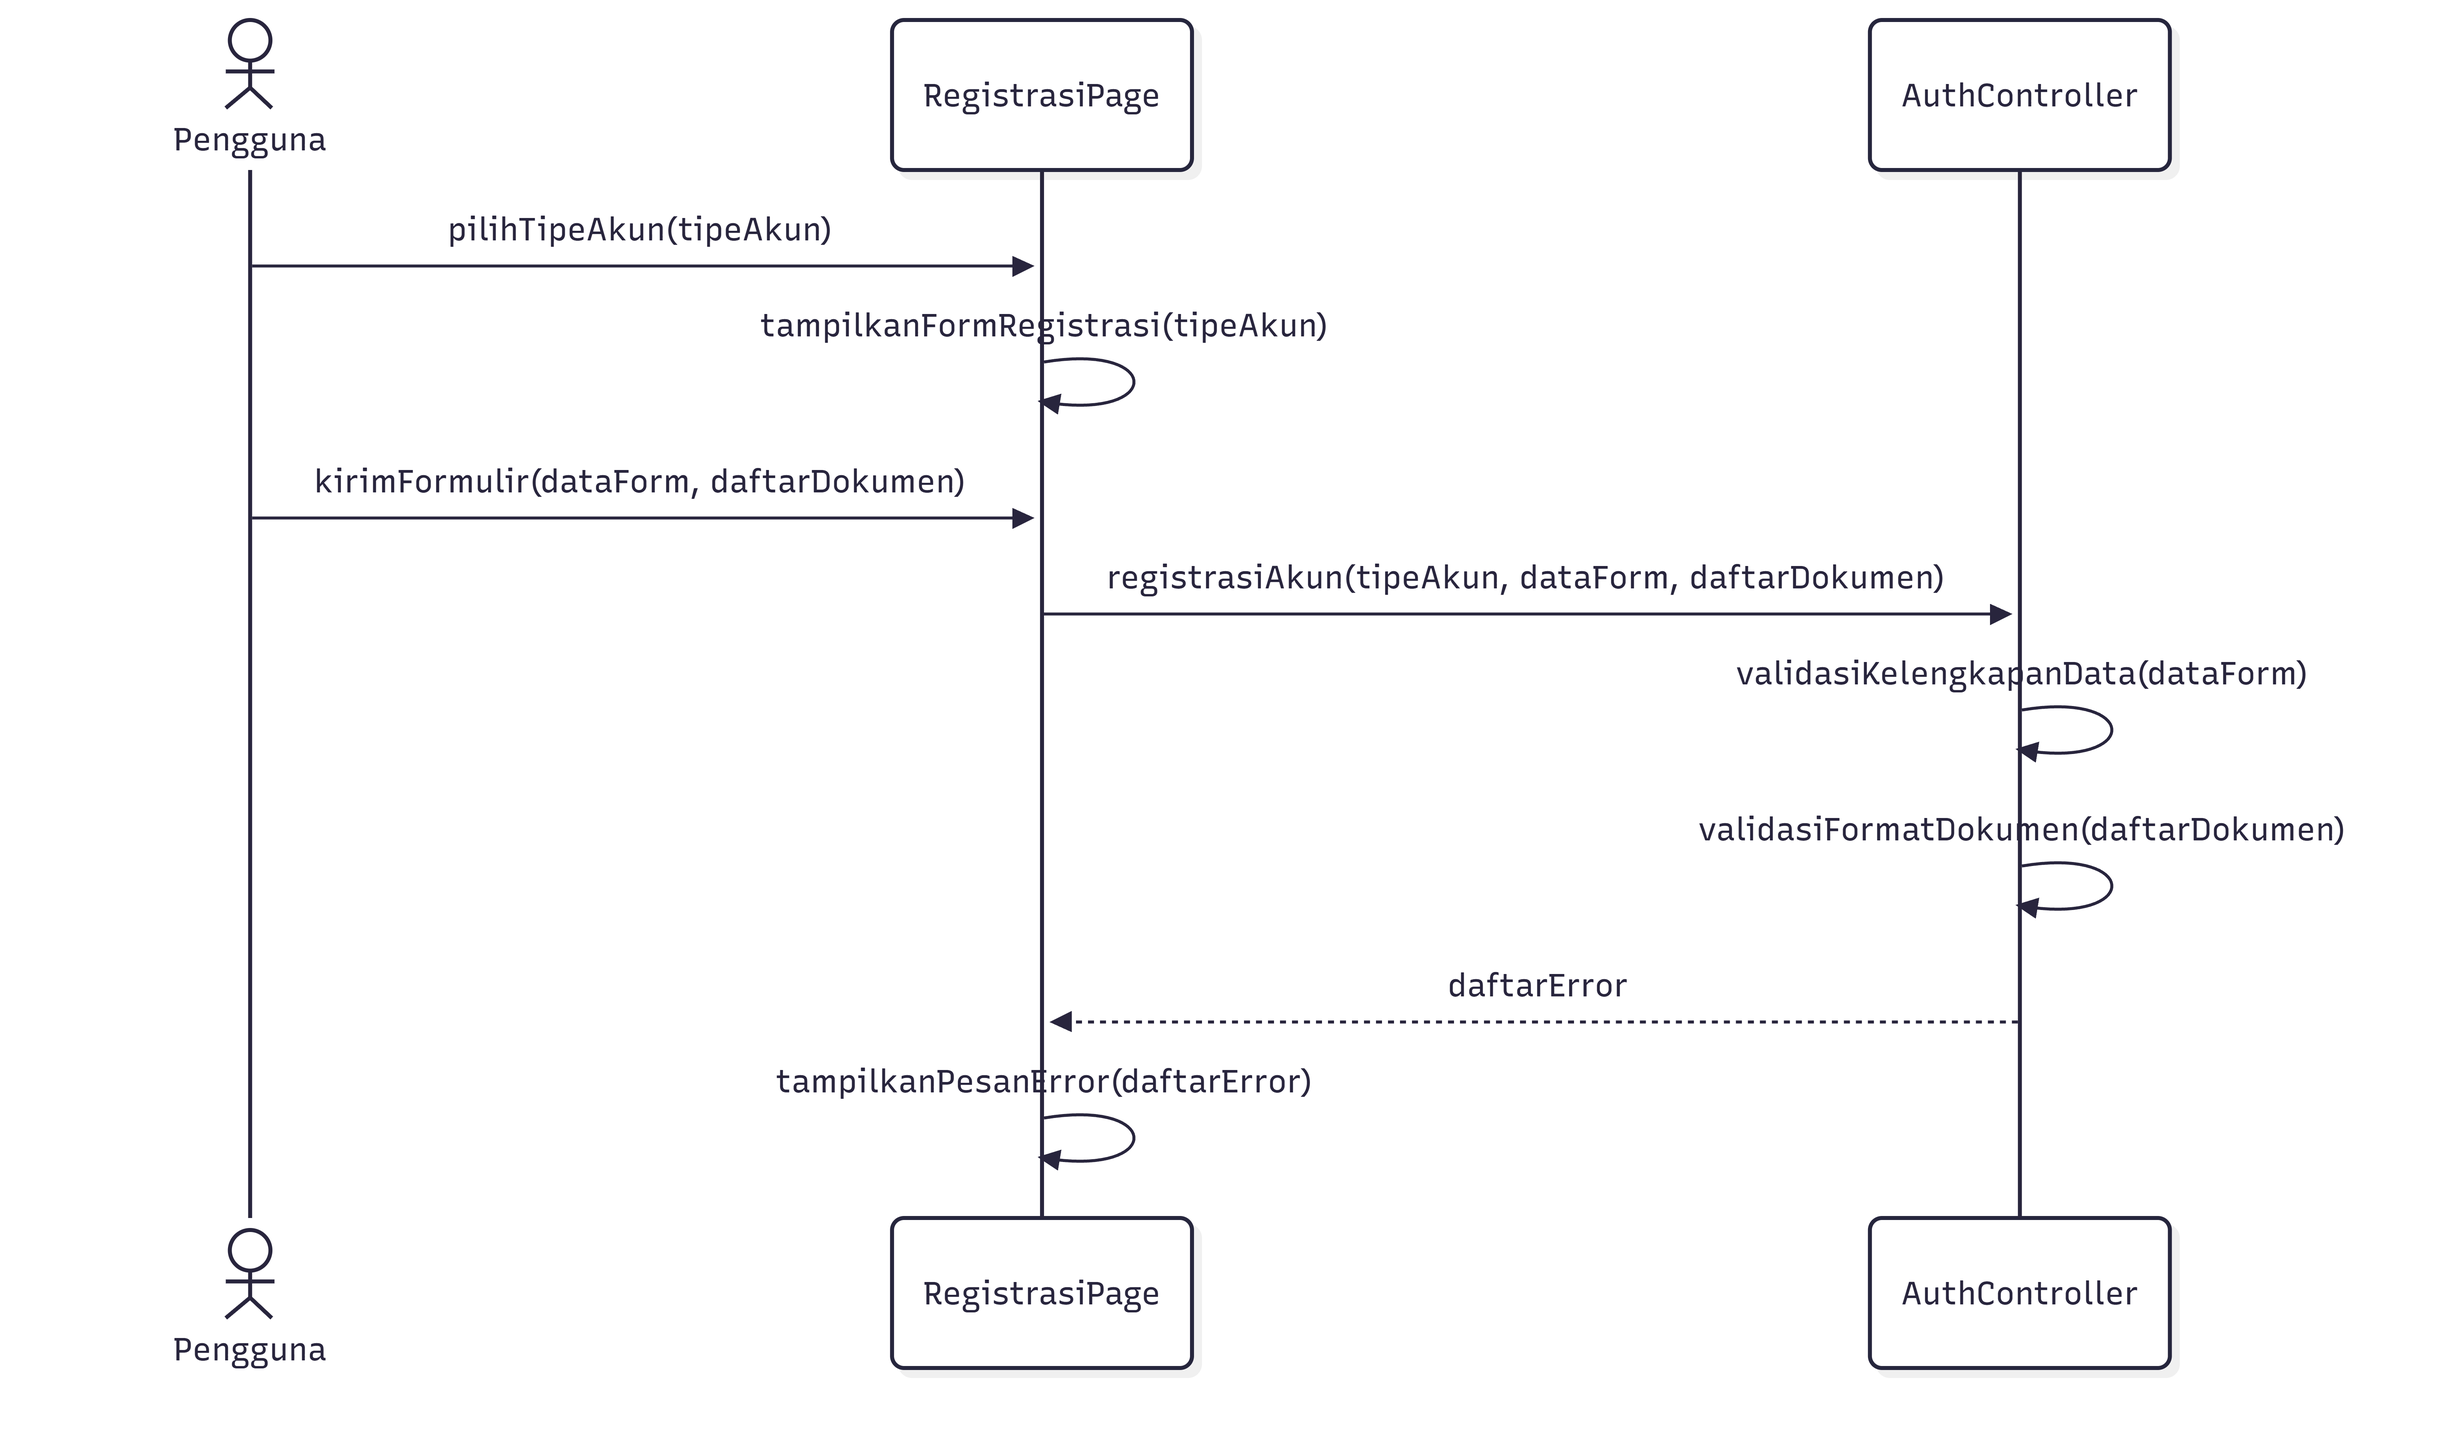
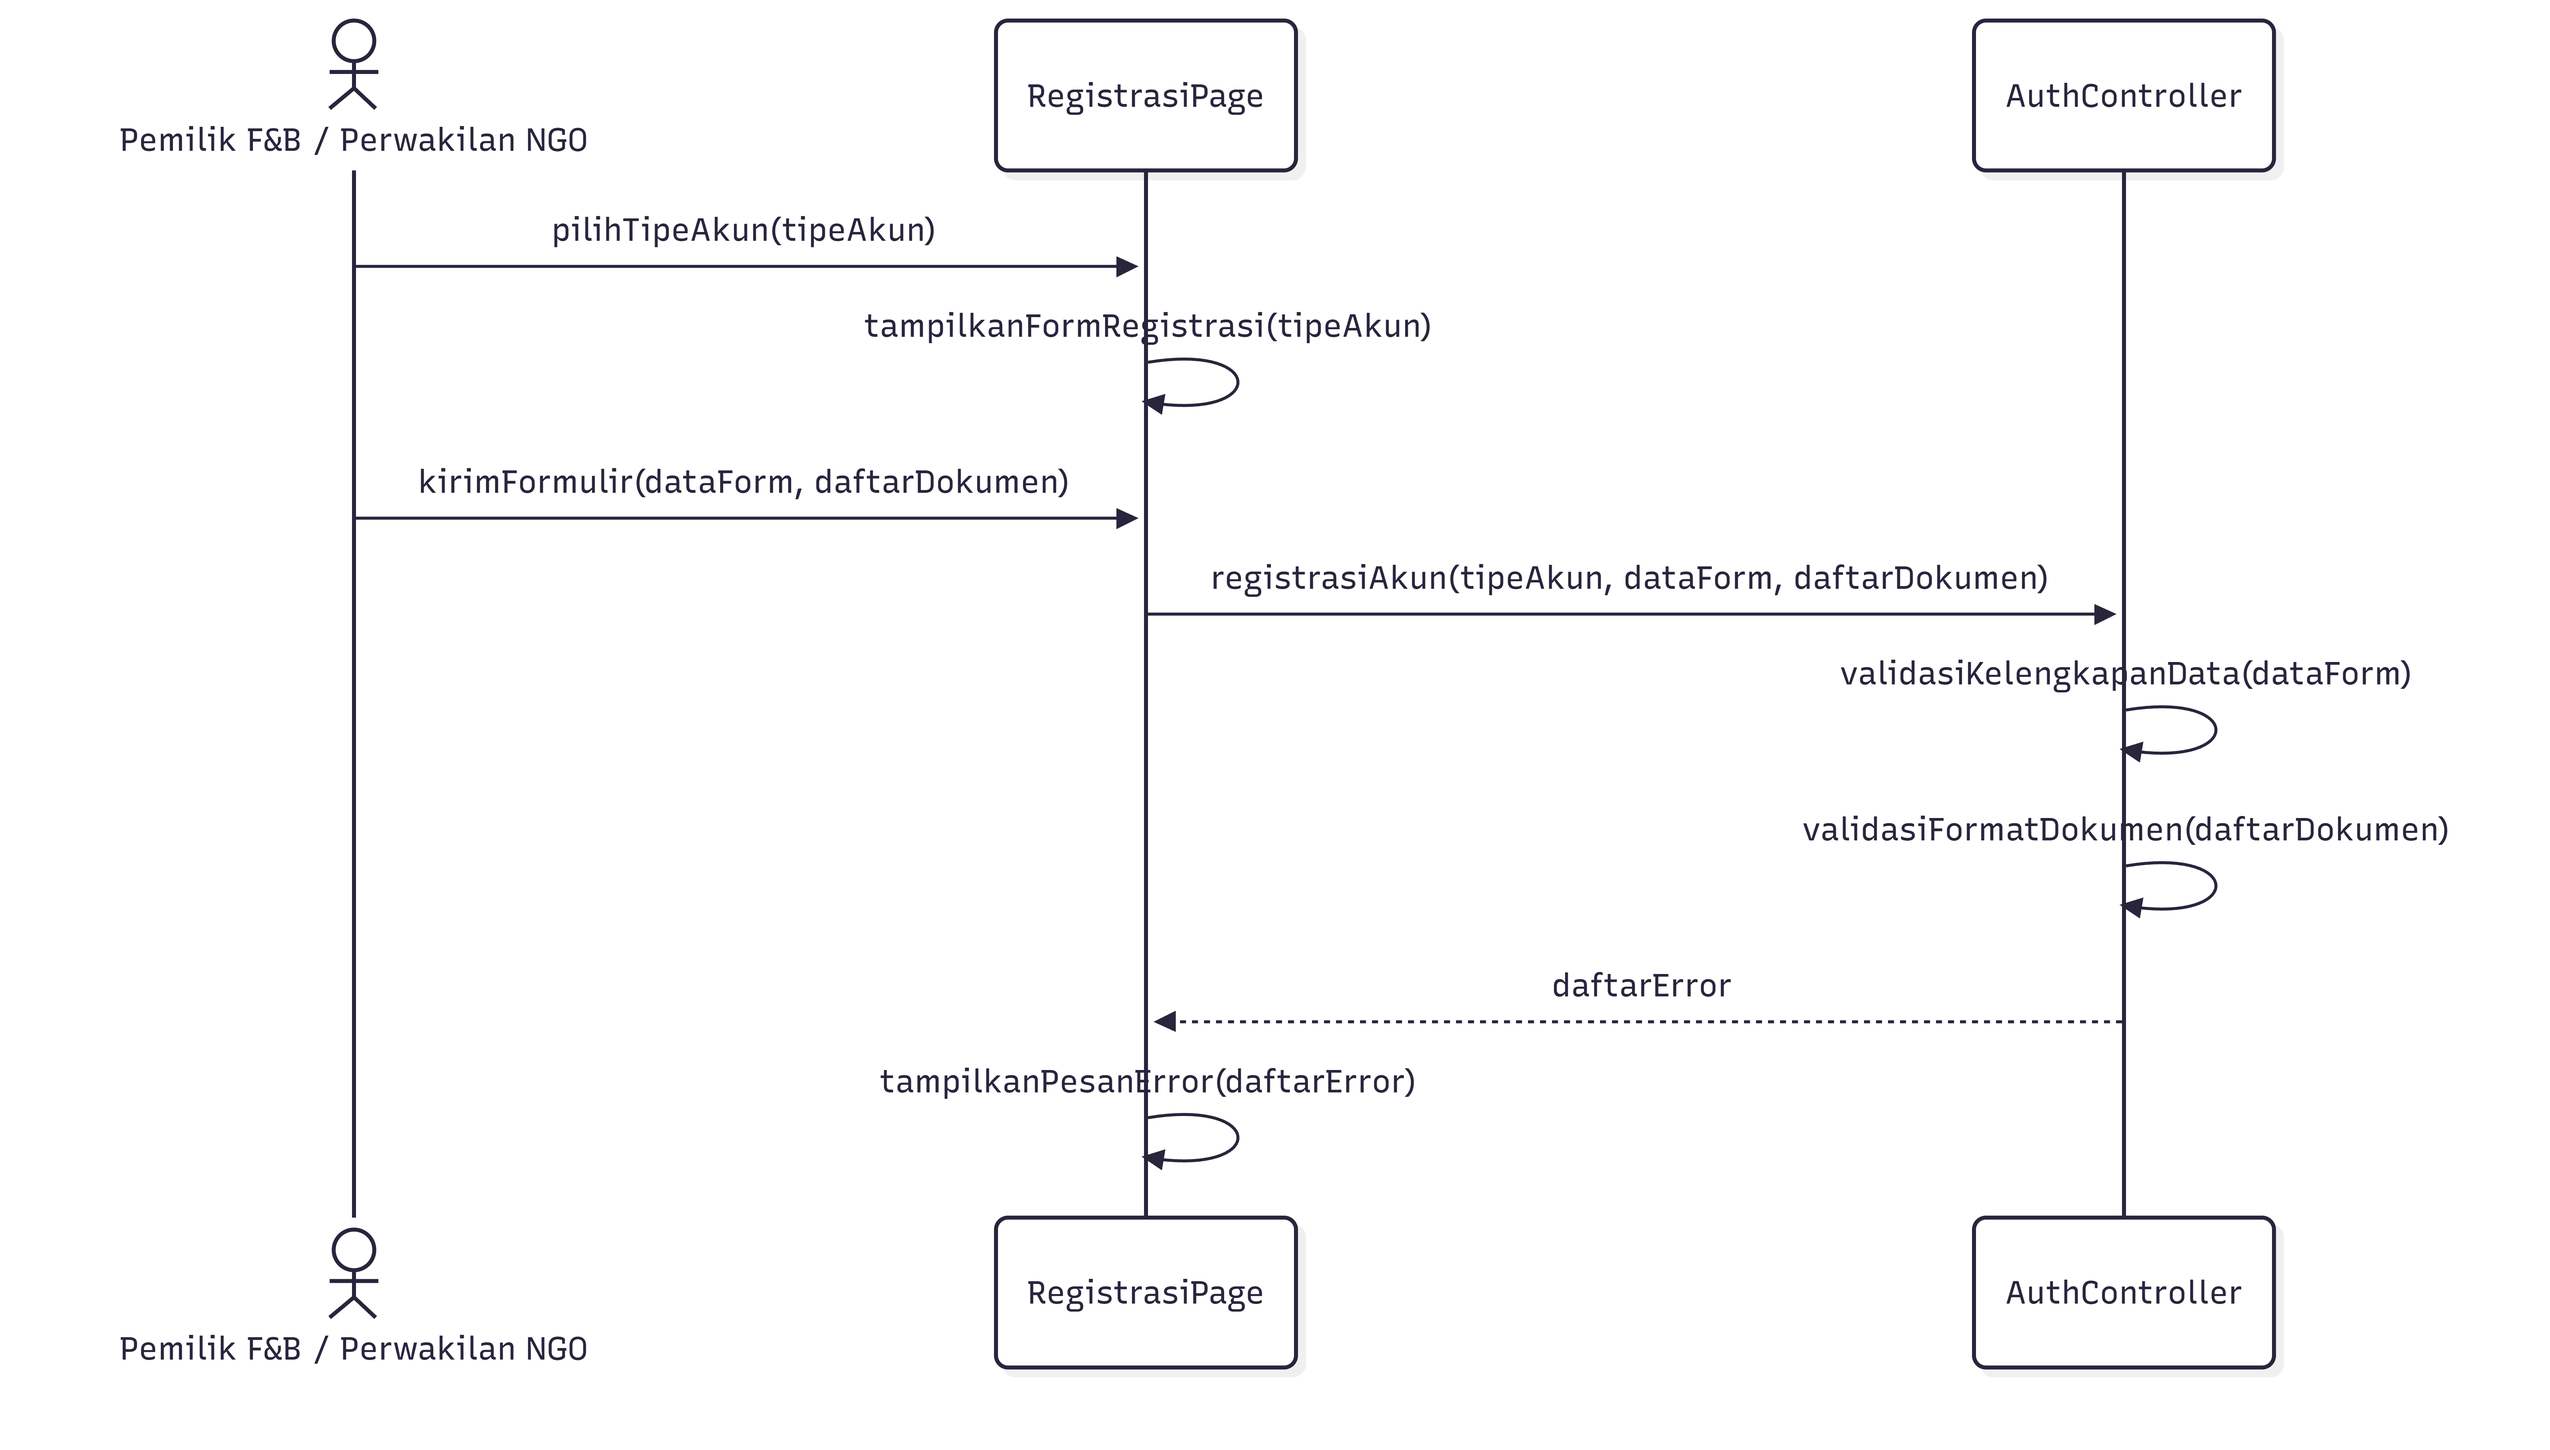
docs: fix inkonsistensi penamaan atribut dan metode, melengkapi daftar kelas UC01 pada tabel 4.1, memperbaiki diagram agar saling konsisten

diff --git a/docs/M7/K03_G08_DPPL.md b/docs/M7/K03_G08_DPPL.md
@@ -31,10 +31,10 @@ Dipersiapkan oleh:
 
 | Revisi | Deskripsi |
 | :--- | :--- |
-| *A* | *Memperbarui Logical View (Gambar 2) agar lebih sesuai* |
-| *B* |  |
-| *C* |  |
-| ... |  |
+| *A* | *Menyeragamkan nama atribut dan operasi ke Bahasa Indonesia* |
+| *B* | *Menghapus atribut accountId pada PemilikFnB, PerwakilanNGO, dan AdminSistem karena sudah diwarisi dari AkunPengguna.* |
+| *C* | *Menambahkan operasi untuk merealisasikan skenario use case (validasiKelengkapanData() dan validasiFormatDokumen() pada AuthController; pilihTipeAkun(), kirimFormulir(), tampilkanPesanBerhasil(), dan tampilkanPesanError() pada RegistrasiPage)* |
+| *D* | ** |
 
 ---
 
@@ -507,9 +507,13 @@ Tabel 4.1. Daftar Kelas Perancangan Keseluruhan
 
 | ID Kelas | Nama Kelas | Atribut | Metode/Operasi |
 | :--- | :--- | :--- | :--- |
-| *[C01]* | *[Nama kelas]* | *[Daftar atribut]* | *[Daftar metode/operasi]* |
-| *[C02]* | *[Nama kelas]* | *[Daftar atribut]* | *[Daftar metode/operasi]* |
-| *[C03]* | *[Nama kelas]* | *[Daftar atribut]* | *[Daftar metode/operasi]* |
+| *C01* | *AkunPengguna* | *idAkun, email, kataSandi, tipeAkun* | *registrasi()* |
+| *C02* | *Pendaftaran* | *idPendaftaran, tanggalDaftar, statusVerifikasi* | *ajukanPendaftaran()* |
+| *C03* | *DokumenPendukung* | *idDokumen, namaFile, tipeDokumen* | *unggahDokumen()* |
+| *C12* | *RegistrasiPage* | *-* | *pilihTipeAkun(), tampilkanFormRegistrasi(), kirimFormulir(), tampilkanPesanBerhasil(), tampilkanPesanError()* |
+| *C23* | *AuthController* | *-* | *registrasiAkun(), validasiKelengkapanData(), validasiFormatDokumen()* |
+| *C30* | *PemilikFnB* | *namaUsaha, alamatUsaha, jamOperasional* | ** |
+| *C31* | *PerwakilanNGO* | *namaOrganisasi, nomorLegalitas, lokasi* | ** |
 | *...* | *...* | *...* | *...* |
 
 <br>
